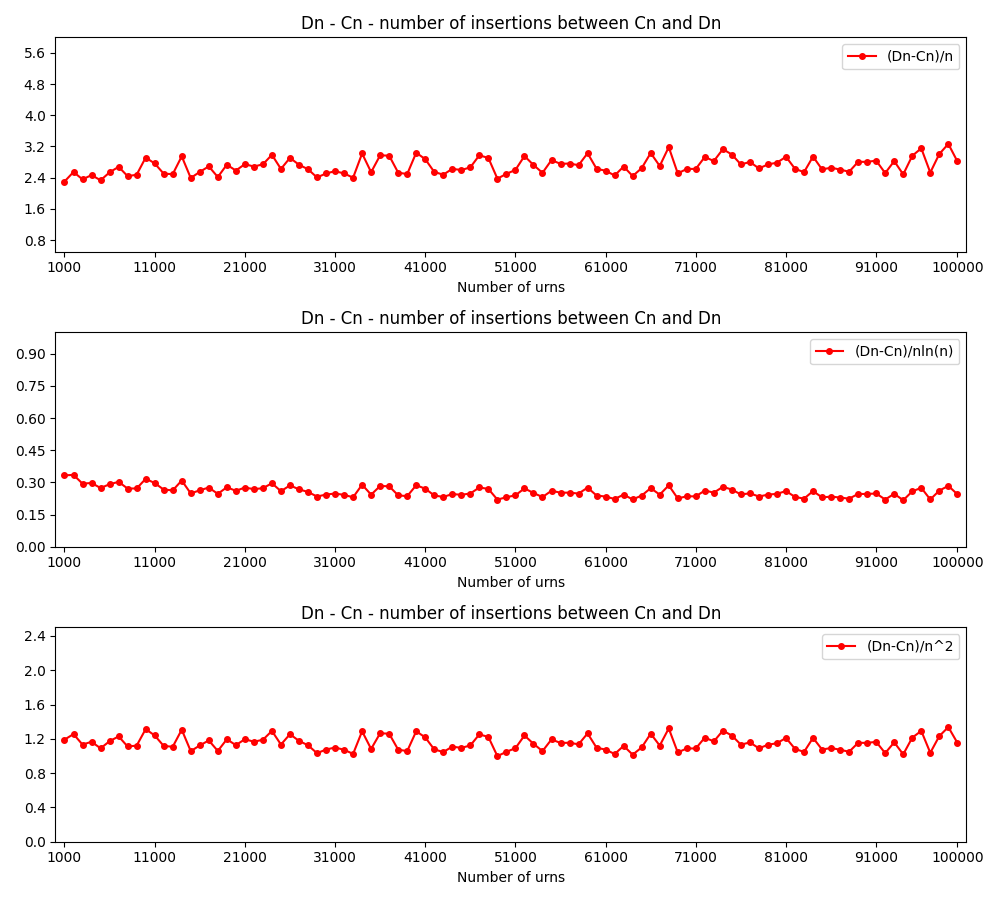
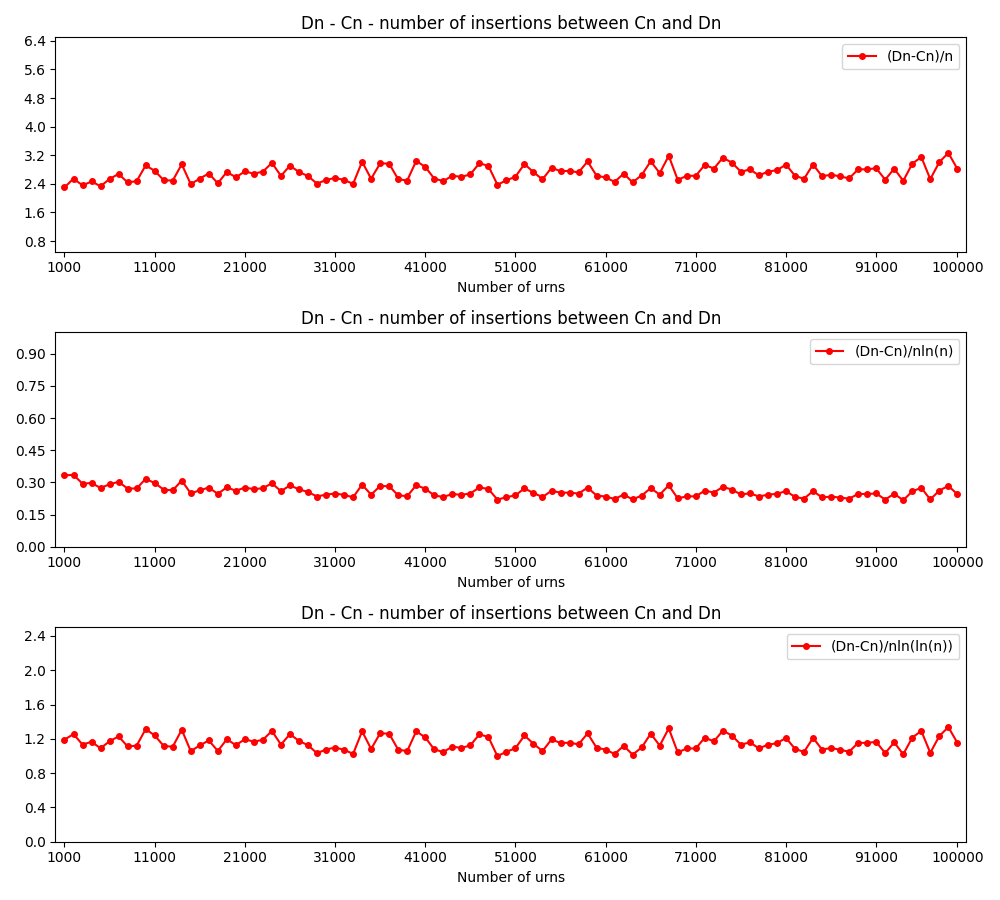
Task 1: Fix ln/dn-cns plots

Changed region(s): [[0.031, 0.0311, 0.961, 0.28], [0.806, 0.7156, 0.961, 0.7467]]

diff --git a/zad1/plot.py b/zad1/plot.py
@@ -147,7 +147,8 @@ if __name__ == '__main__':
   mapped_avg_plot(data=funcs['ln'], axes=ax[1], title=funcs_titles['ln'], func=lambda x, y: y / (np.log(x) / np.log(np.log(x))), func_label='Ln/ln(n)/ln(ln(n))')  
   ax[1].set_ylim(1.2, 2.5)  
   setup_plot(ax[1])
-  mapped_avg_plot(data=funcs['ln'], axes=ax[2], title=funcs_titles['ln'], func=lambda x,y : y / np.sqrt(x), func_label='Ln/sqrt(n)')
+  mapped_avg_plot(data=funcs['ln'], axes=ax[2], title=funcs_titles['ln'], func=lambda x,y : y / np.log(np.log(x)), func_label='Ln/ln(ln(n))')
+  ax[2].set_ylim(2, 5)  
   setup_plot(ax[2])
   fig.tight_layout()
   fig.show()
@@ -189,7 +190,7 @@ if __name__ == '__main__':
   mapped_avg_plot(data=funcs['dn_cn'], axes=ax[1], title=funcs_titles['dn_cn'], func=lambda x, y: y / (x * np.log(x)), func_label='(Dn-Cn)/nln(n)')  
   ax[1].set_ylim(0, 1) 
   setup_plot(ax[1])
-  mapped_avg_plot(data=funcs['dn_cn'], axes=ax[2], title=funcs_titles['dn_cn'], func=lambda x,y : y / (x * np.log(np.log(x))), func_label='(Dn-Cn)/n^2')
+  mapped_avg_plot(data=funcs['dn_cn'], axes=ax[2], title=funcs_titles['dn_cn'], func=lambda x,y : y / (x * np.log(np.log(x))), func_label='(Dn-Cn)/nln(ln(n))')
   ax[2].set_ylim(0, 2.5) 
   setup_plot(ax[2])
   fig.tight_layout()
